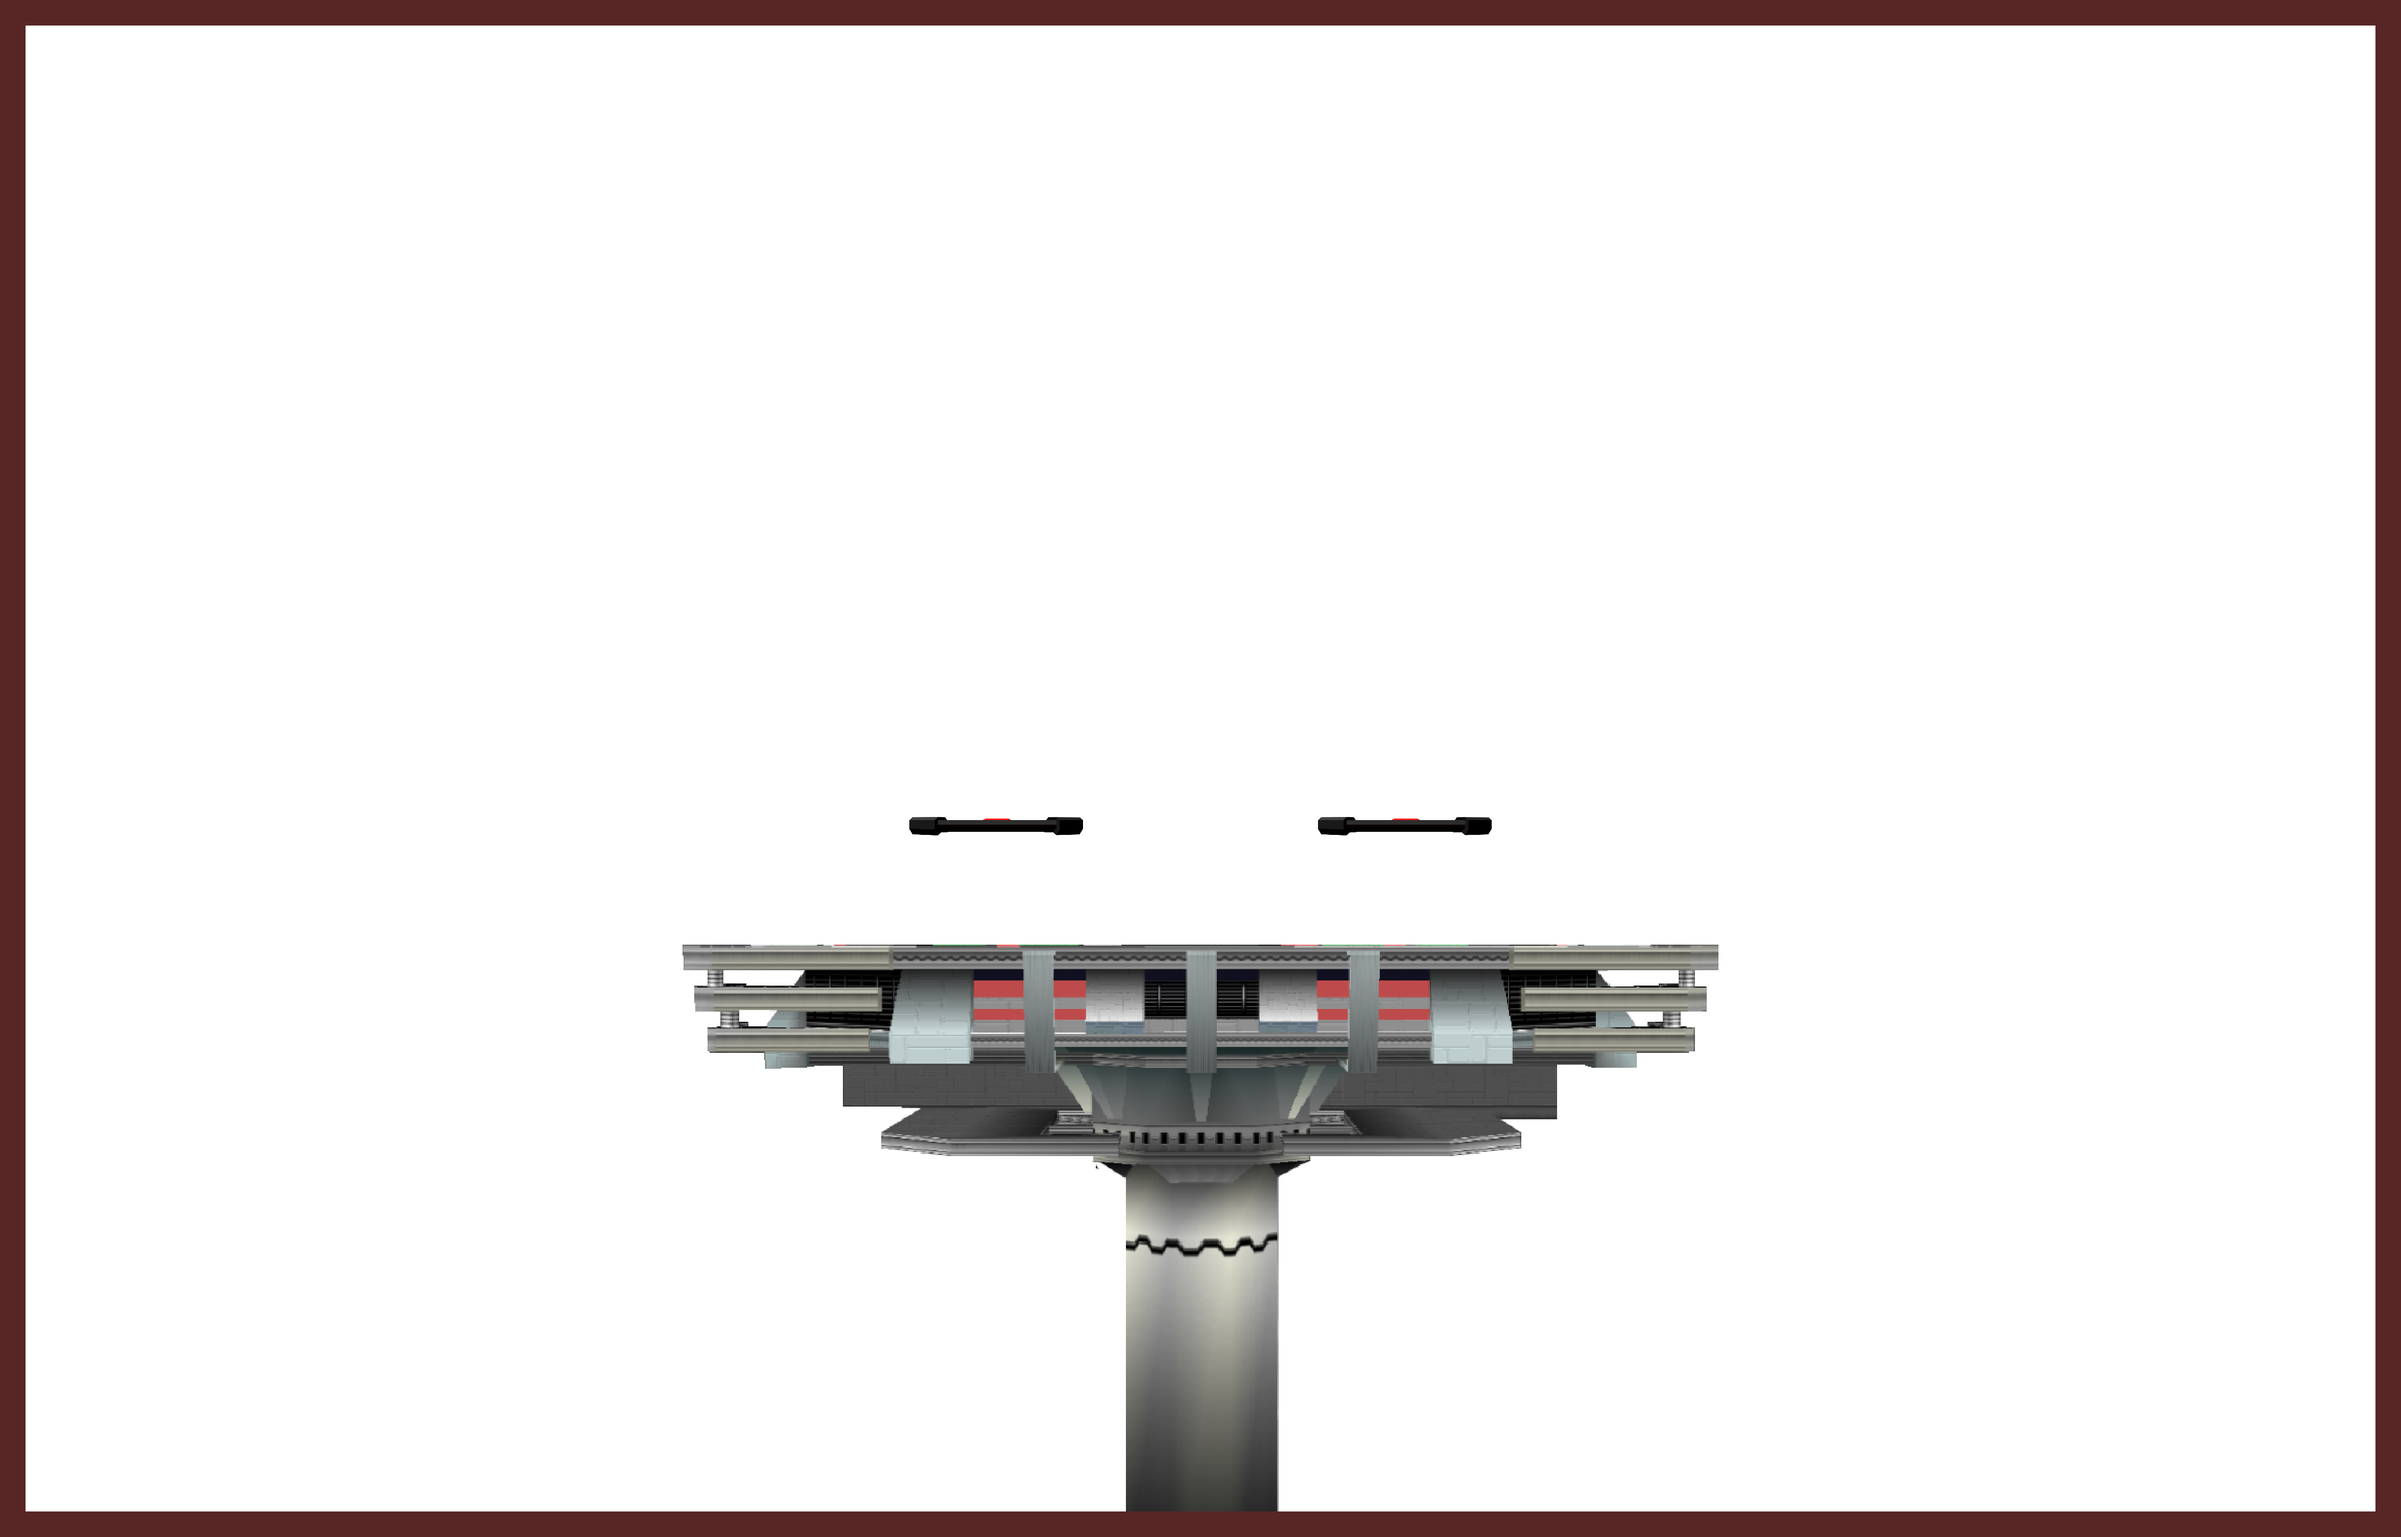
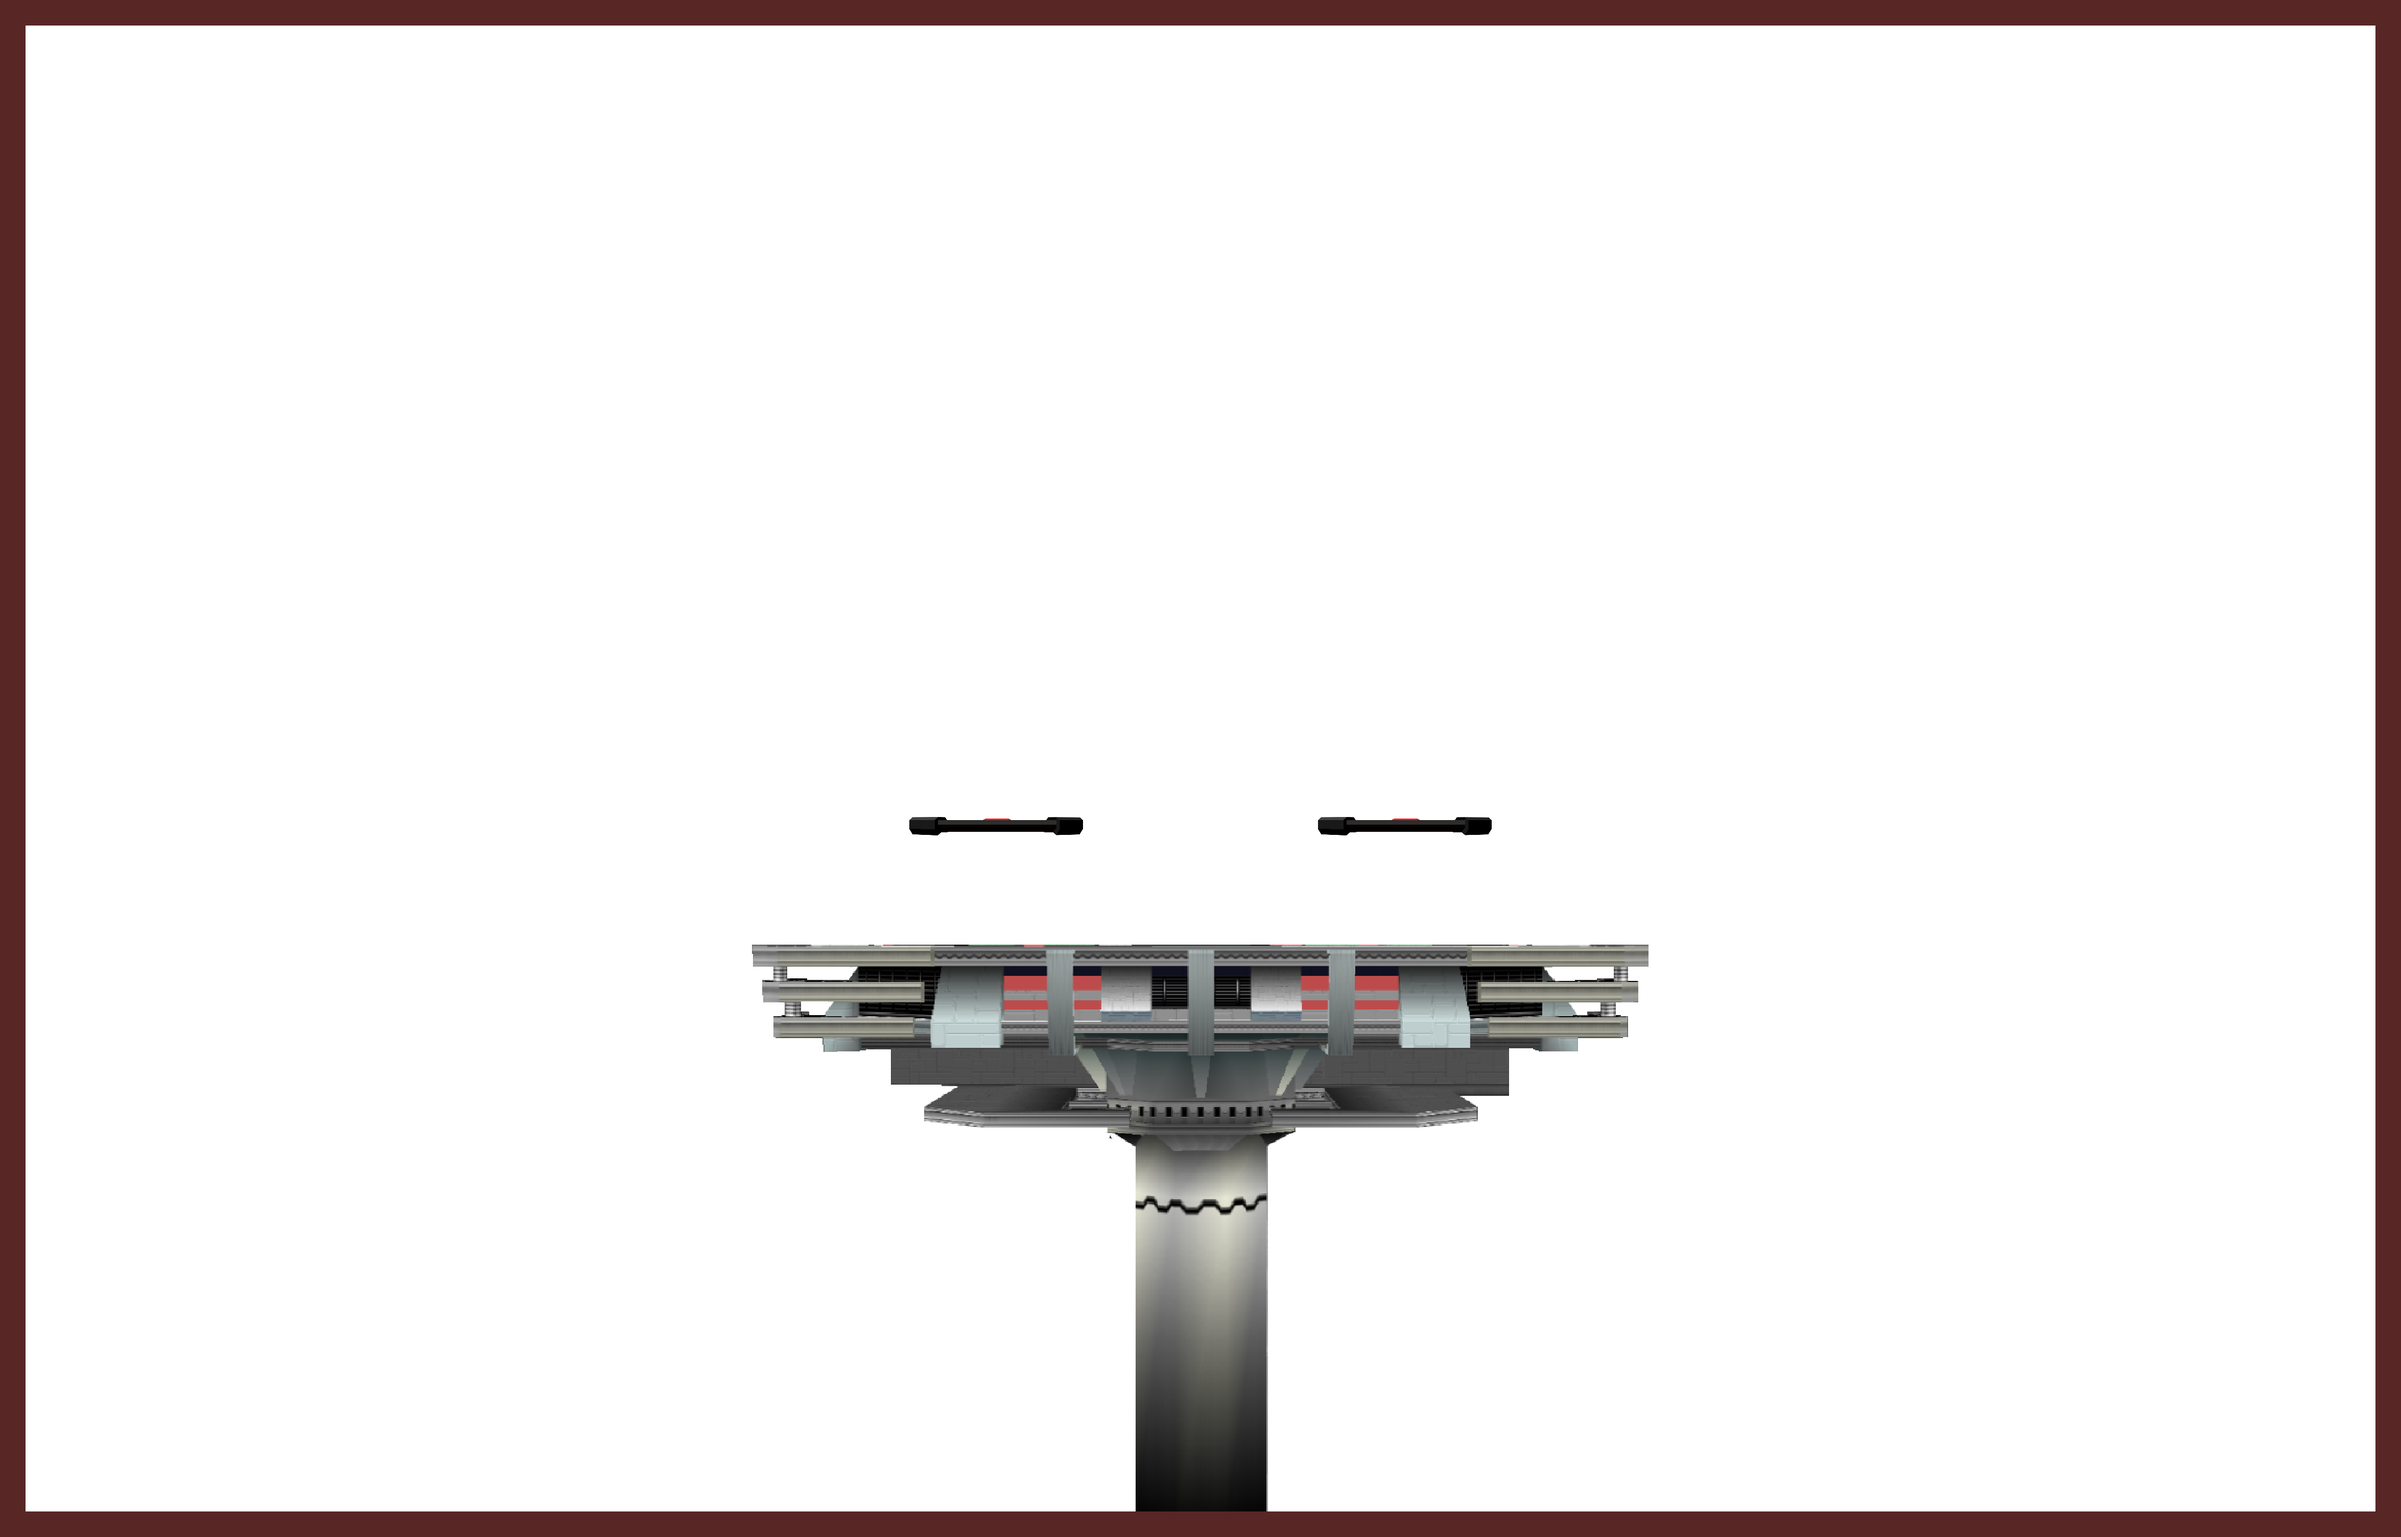
slantedEdgesAndFixedPstadium

Changed region(s): [[0.2796, 0.5934, 0.7145, 0.9993]]

diff --git a/trajectory.js b/trajectory.js
@@ -114,8 +114,8 @@ surfaces.bf = [[[-68.4,0],[68.4,0]],[[-57.6,27.2],[-20.0,27.2]],[[20,27.2],[57.6
 surfaces.fd = [[[-85.56570,0],[85.56570,0]]];
 surfaces.dl = [[[-77.2713,0.0089],[77.2713,0.0089]],[[-61.3929,30.1422],[-31.7254,30.1422]],[[31.7036,30.2426],[63.0745,30.2426]],[[-19.0181,51.4254],[19.0171,51.4254]]];
 surfaces.ps = [[[-87.75,0],[87.75,0]],[[-55,25],[-25,25]],[[25,25],[55,25]]];
-surfaces.ys = [[[-39.2,0],[39.2,0]],[[-59.5,23.45],[-28,23.45]],[[28,23.45],[59.5,23.45]],[[-15.75,42],[15.75,42]]];
-surfaces.fo = [[[-51.262,0.00288],[51.262,0.00288]],[[-14.25,42.75],[14.25,42.75]]];
+surfaces.ys = [[[-56,0],[56,0]],[[-59.5,23.45],[-28,23.45]],[[28,23.45],[59.5,23.45]],[[-15.75,42],[15.75,42]]];
+surfaces.fo = [[[-63.34755,0.00288],[63.34755,0.00288]],[[-14.25,42.75],[14.25,42.75]]];
 
 
 snapping = true;
@@ -196,7 +196,33 @@ function trajectoryHover(){
                 t["t"+aT].mouseXMelee = surfaces[activeStage][i][1][0];
 
               }
-              t["t"+aT].mouseYMelee = surfaces[activeStage][i][0][1];
+
+              if (i == 0 && activeStage == "ys" && t["t"+aT].mouseXMelee > 39.2){
+                var angle = Math.atan(3.5/16.8);
+                var x = t["t"+aT].mouseXMelee - 39.2;
+                t["t"+aT].mouseYMelee = -x * Math.tan(angle);
+              }
+              else if (i == 0 && activeStage == "ys" && t["t"+aT].mouseXMelee < -39.2){
+                var angle = Math.atan(3.5/16.8);
+                var x = -t["t"+aT].mouseXMelee - 39.2;
+                t["t"+aT].mouseYMelee = -x * Math.tan(angle);
+              }
+              else if (i == 0 && activeStage == "fo" && t["t"+aT].mouseXMelee > 51.261 && t["t"+aT].mouseXMelee < 53.583){
+                var angle = Math.atan(0.621/2.322);
+                var x = t["t"+aT].mouseXMelee - 51.261;
+                t["t"+aT].mouseYMelee = x * Math.tan(angle);
+              }
+              else if (i == 0 && activeStage == "fo" && t["t"+aT].mouseXMelee < -51.261 && t["t"+aT].mouseXMelee > -53.583){
+                var angle = Math.atan(0.621/2.322);
+                var x = -t["t"+aT].mouseXMelee - 51.261;
+                t["t"+aT].mouseYMelee = x * Math.tan(angle);
+              }
+              else if (i == 0 && activeStage == "fo" && (t["t"+aT].mouseXMelee >= 53.583 || t["t"+aT].mouseXMelee <= -53.583)){
+                t["t"+aT].mouseYMelee = 0.62388
+              }
+              else {
+                t["t"+aT].mouseYMelee = surfaces[activeStage][i][0][1];
+              }
             }
           }
         }

diff --git a/trajectory.html b/trajectory.html
@@ -44,7 +44,7 @@
 
 </div>
 <div id="pagetitle" style="background-color:#D48B39">
-<img id="homebutton" class="hometrans" src="assets/kneesmalllogo.png" width="40" height="40"/><h1>Trajectory Simulator</h1><p id="credits">by Schmoo and GentleFox    v0.2.8 (All stages done except slanted surfaces)</p><div id="NTSCButton" class="verButton verButtonOn"><p>NTSC</p></div><div id="PALButton" class="verButton"><p>PAL</p></div>
+<img id="homebutton" class="hometrans" src="assets/kneesmalllogo.png" width="40" height="40"/><h1>Trajectory Simulator</h1><p id="credits">by Schmoo and GentleFox    v0.2.8 (All stages and slanted surfaces)</p><div id="NTSCButton" class="verButton verButtonOn"><p>NTSC</p></div><div id="PALButton" class="verButton"><p>PAL</p></div>
 
 </div><div id="main">
 <div id="lcontrols"><div id="attackertitle"><p>ATTACKER</p></div><div id="attackselecttitle"><p>Select Attack</p></div><div id="attackscroll"><div id="Fx" class="character"><p>Fox</p></div>
